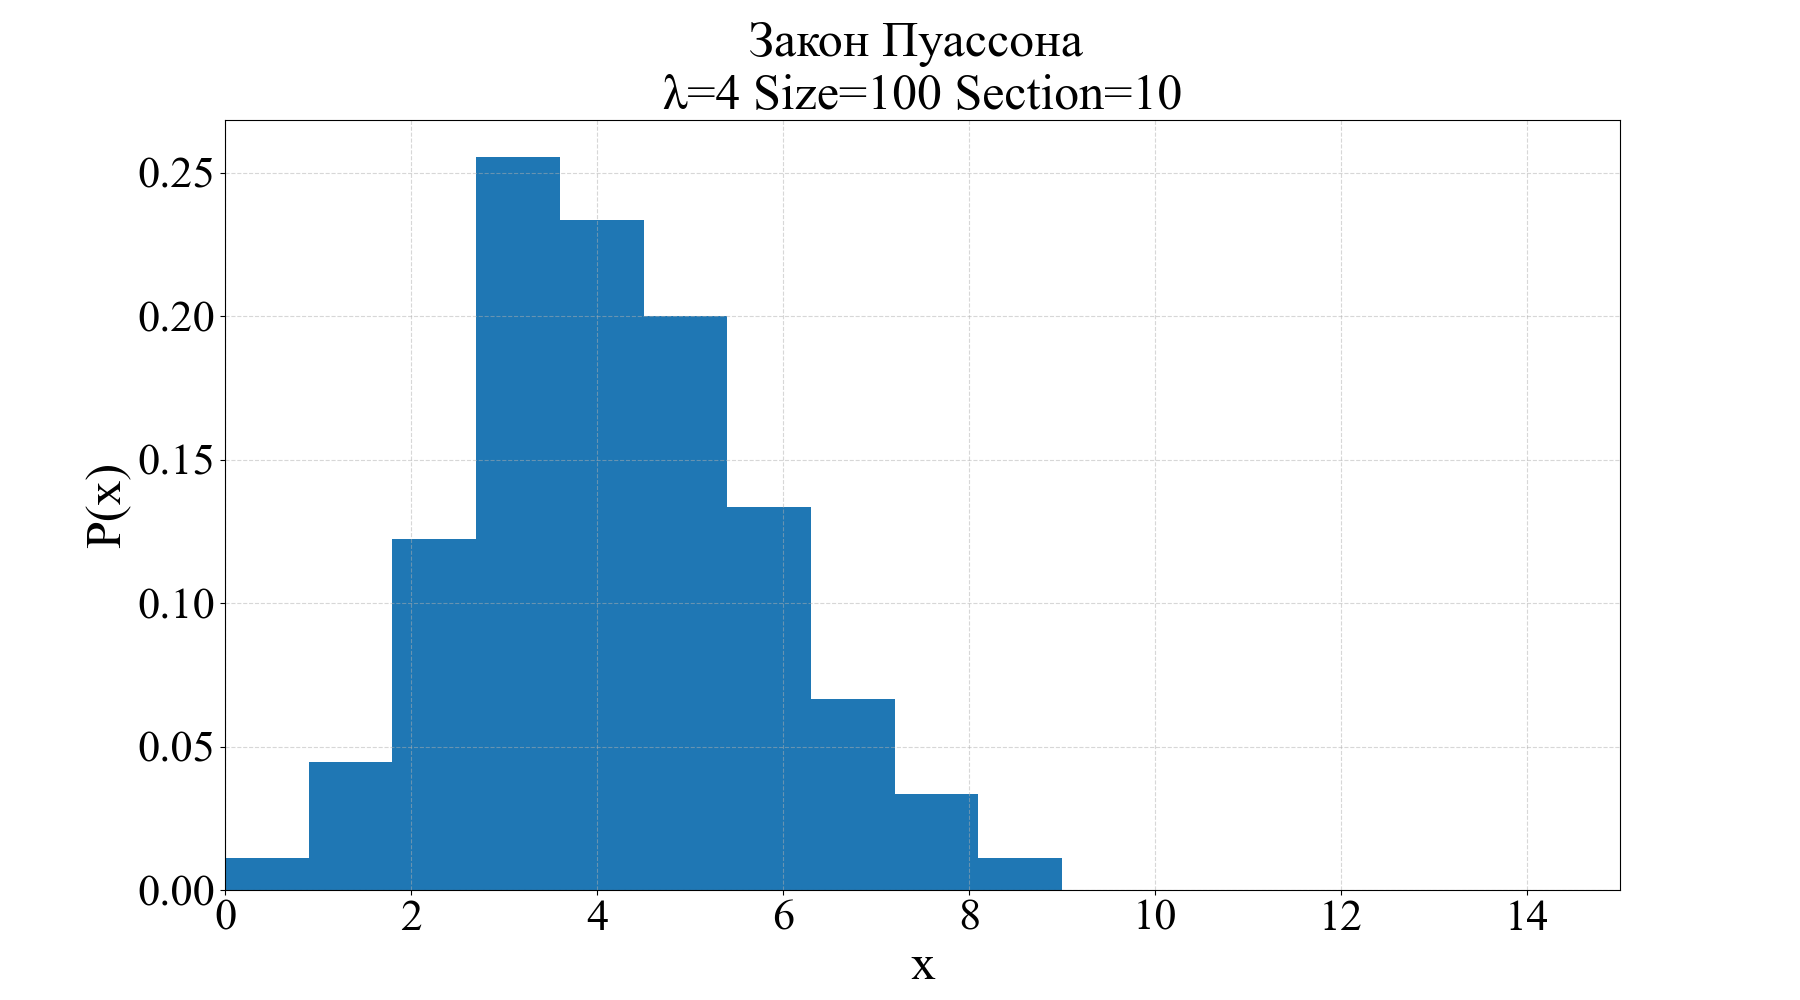
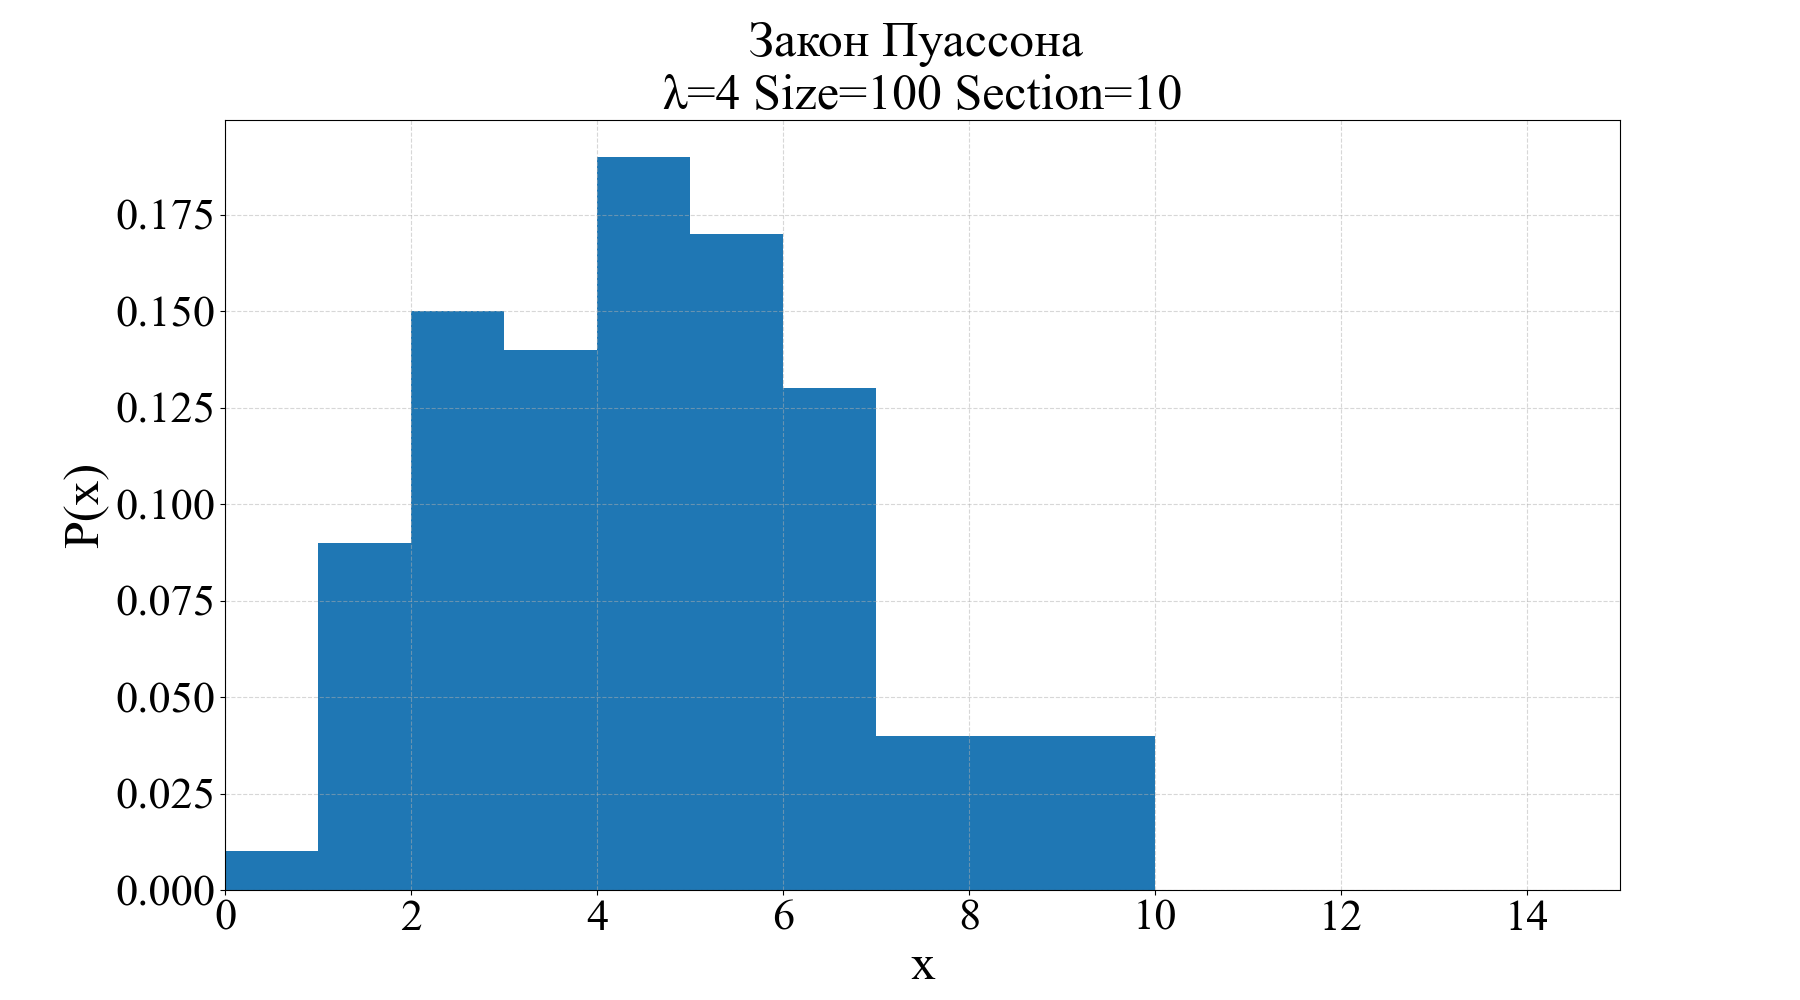
增加 生成标准泊松分布的函数

diff --git a/003 - lab2+/main.py b/003 - lab2+/main.py
@@ -80,6 +80,25 @@ def irnpsn(mu: int, size: int) -> np.ndarray:
     return np.array(arr_irnpsn)
 
 
+def get_arr_exp_hist_poisson(mu: int, skip: int, size: int) -> np.ndarray:
+    """
+    生成标准泊松分布的数组
+    :param skip: 分割为几个区间
+    :param mu: 参数 int 类型
+    :param size: 数组大小
+    :return: ndarry 类型的数组
+    """
+    if mu < 0 or size < 0 or skip < 0:
+        raise ValueError
+
+    arr_poisson = []
+    for k in range(skip):
+        val = ((math.e ** -mu) * (mu ** k)) / math.factorial(k)
+        arr_poisson.append(int(val * size))
+
+    return np.array(arr_poisson)
+
+
 def get_hist_arr(arr: np.ndarray, arr_cut_value: np.ndarray) -> np.ndarray:
     """
     根据传入的数值数组进行分隔并统计分布数量
@@ -121,10 +140,8 @@ if __name__ == '__main__':
     ############################################################################
 
     print('>' * 50, '\nnumpy 标准泊松分布：')
-    arr_exp_poisson = np.random.poisson(lam=4, size=1000000)
-    pd.Series(arr_exp_poisson).sort_values().plot(kind='hist')
-    arr_exp_hist = get_hist_arr(arr=arr_exp_poisson, arr_cut_value=arr_cut_value)  # [0, 16)
-    print('\t分布数量：', arr_exp_hist)
+    arr_exp_hist_poisson = get_arr_exp_hist_poisson(mu=4, skip=15, size=100)
+    print('\t分布数量：', arr_exp_hist_poisson)
     print('-' * 50, '\n')
 
     ############################################################################
@@ -139,8 +156,8 @@ if __name__ == '__main__':
     # print('\t分布数量：', arr_obs_poi_hist)
     # chi_2 = chisquare(f_obs=arr_obs_poi_hist + 0.05, f_exp=arr_exp_hist + 0.05)
     # print('chi_2: ', chi_2)
-    #
-    # ############################################################################
+    # #
+    # # ############################################################################
     #
     # print('\n\n', '>' * 50, '\nirnpoi(mu=4, size=100):')
     # arr_psn = irnpsn(mu=4, size=100)
